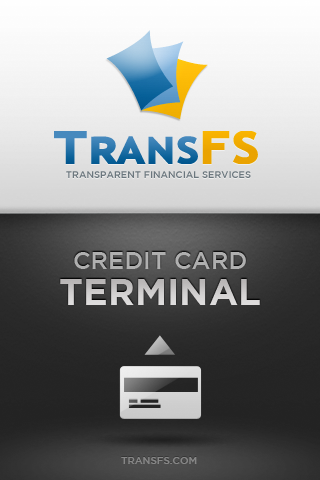
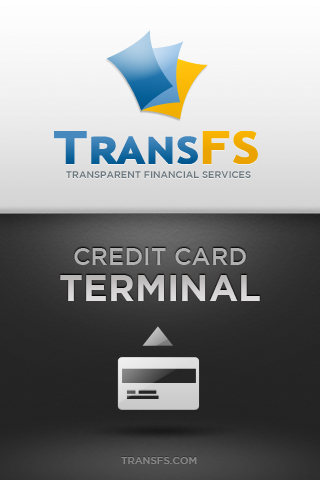
Fixed alignment of Default.png with splash screen layout.  Fixed splash screen so it appears while stuff is being setup in the background.

diff --git a/Classes/TransFS_Card_TerminalAppDelegate.m b/Classes/TransFS_Card_TerminalAppDelegate.m
@@ -20,6 +20,7 @@
 @interface TransFS_Card_TerminalAppDelegate (Private)
 - (void)createEditableCopyOfDatabaseIfNeeded;
 - (void)initializeDatabase;
+- (void)initAppOnStartup:(id)obj;
 - (void)startSplashAnim:(id)obj;
 - (void)splashScreenAnimDidStop:(NSString *)animationID finished:(NSNumber *)finished context:(void *)context;
 - (void)touchesEnded:(NSSet *)touches withEvent:(UIEvent *)event;
@@ -61,6 +62,14 @@
 	} else {
 		[window addSubview:tabBarController.view];
 	}
+
+	[self performSelector:@selector(initAppOnStartup:) withObject:nil afterDelay:0.0];
+}
+
+- (void)initAppOnStartup:(id)obj
+{
+	bool showSetupMessage = [[NSUserDefaults standardUserDefaults] boolForKey:@"showSetupMessage"];
+	bool showSplashScreen = [[NSUserDefaults standardUserDefaults] boolForKey:@"showSplashScreen"];
 
 	// The application ships with a default database in its bundle. If anything in the application
 	// bundle is altered, the code sign will fail. We want the database to be editable by users,
